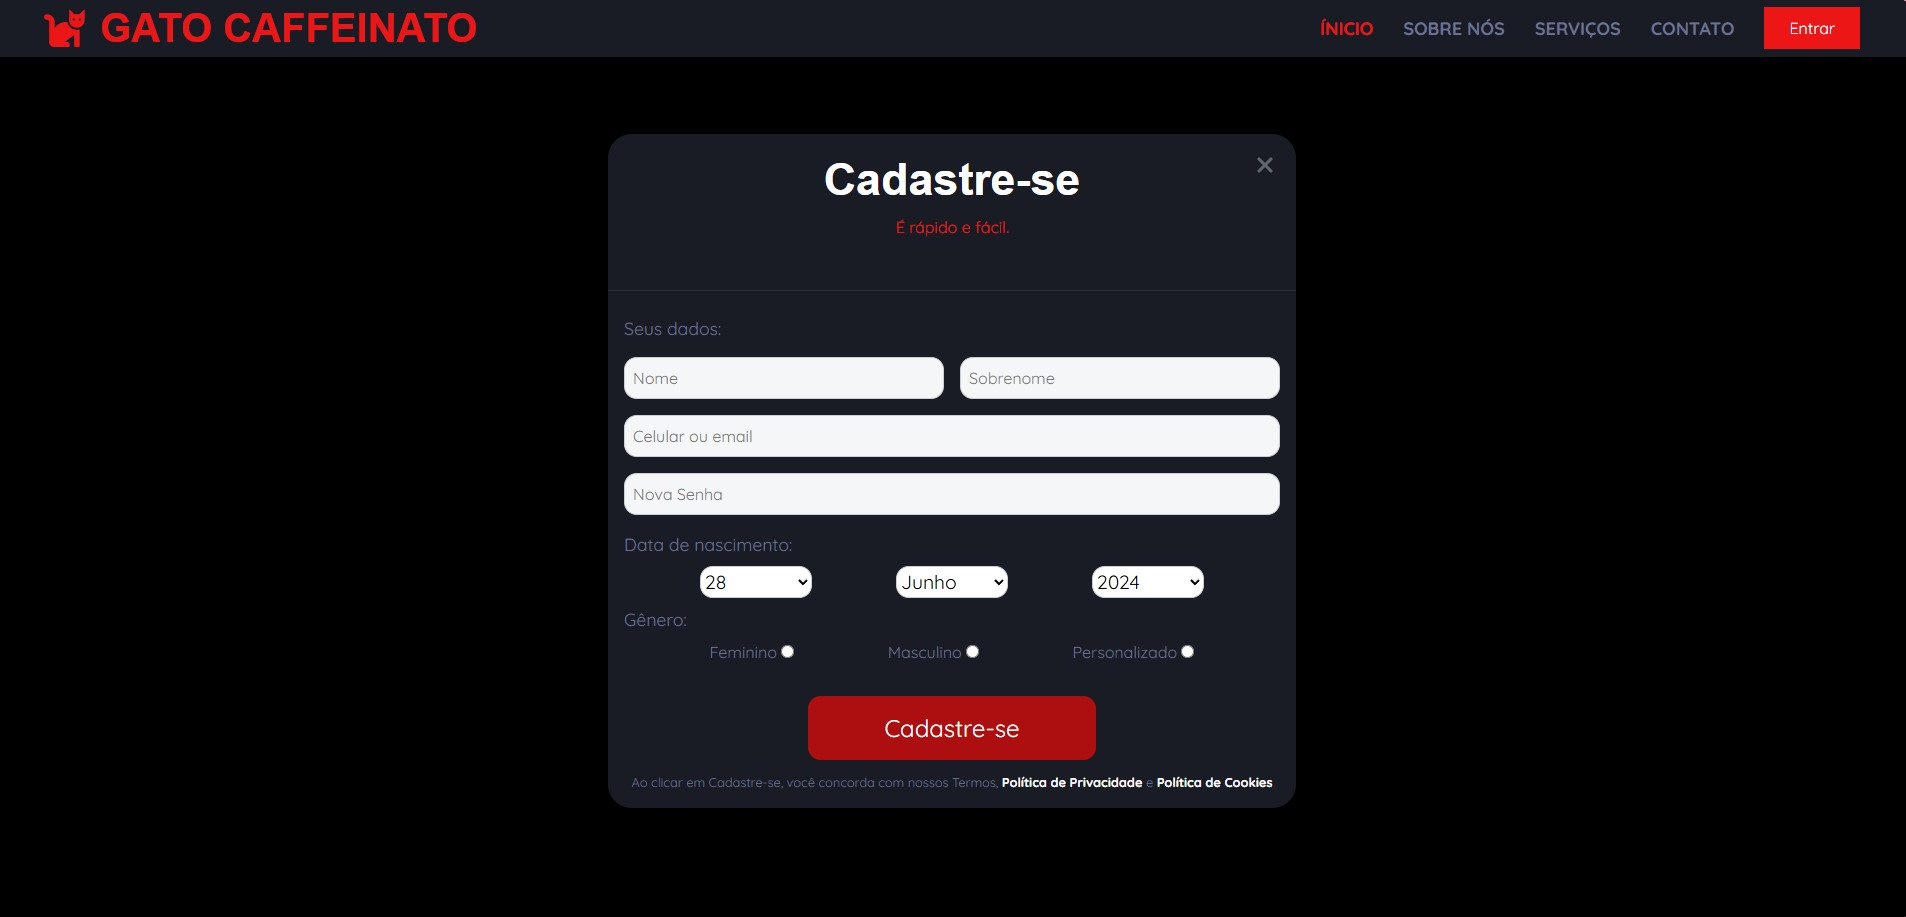
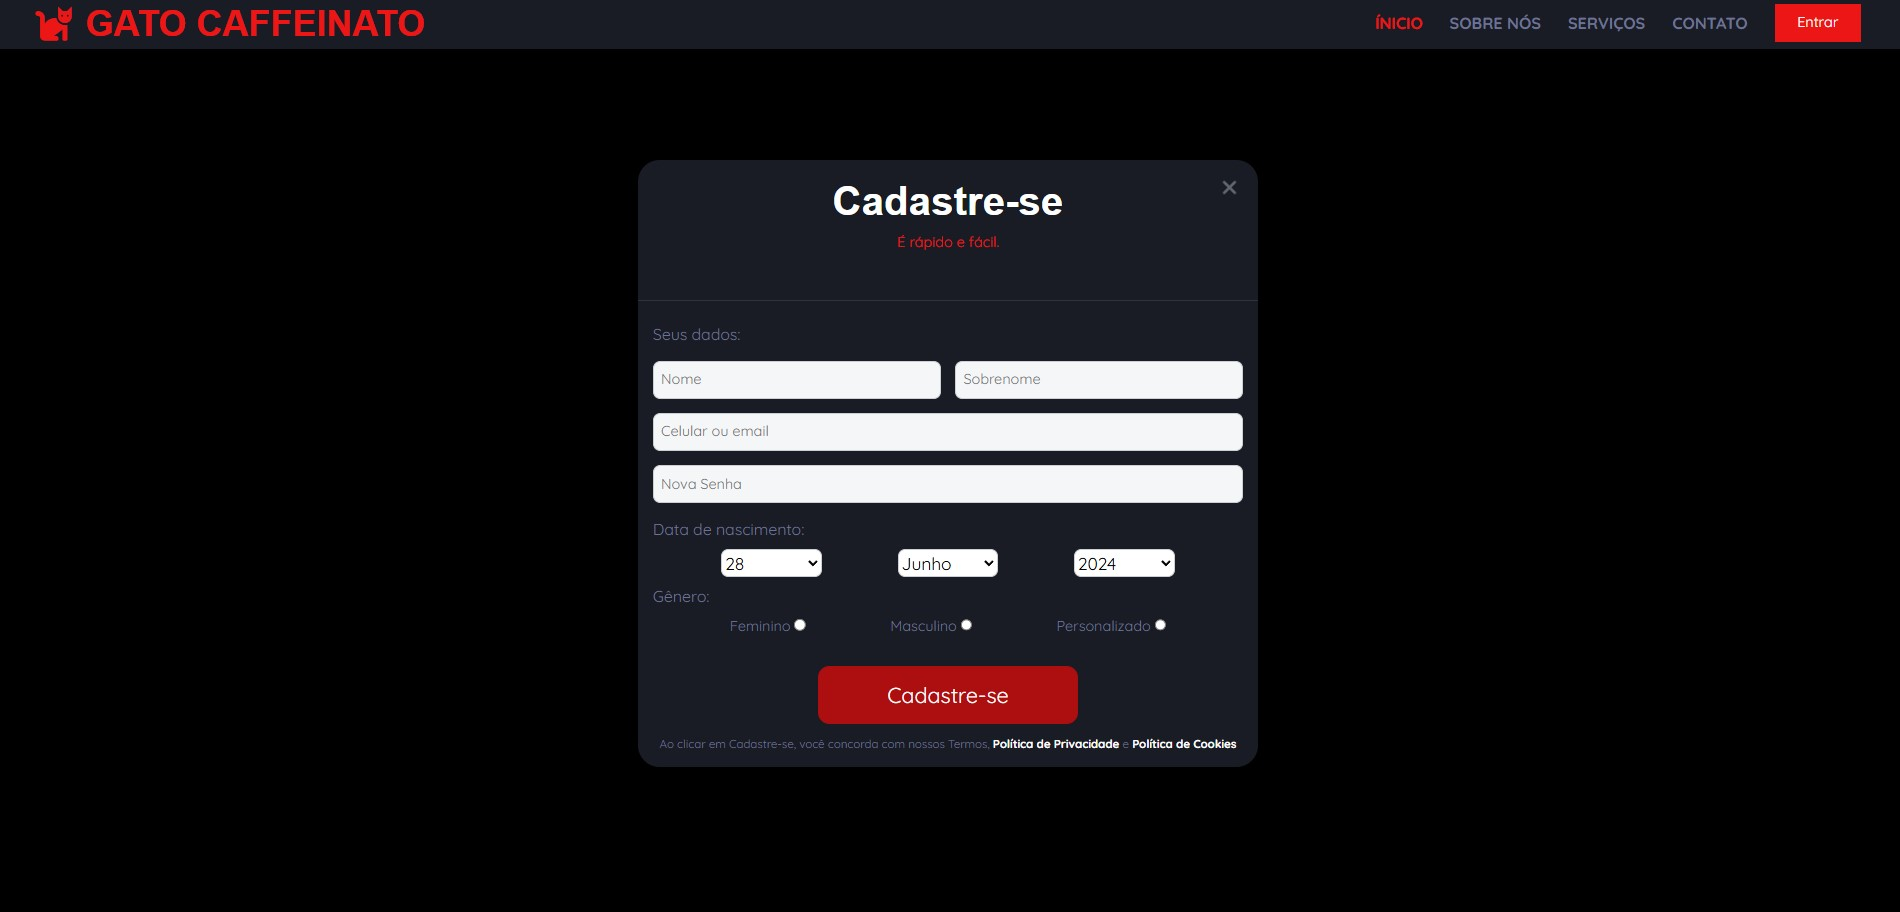
Att no forms

Changed region(s): [[0.3105, 0.1228, 0.6832, 0.8904], [0.0, 0.0, 1.0, 0.0614]]

diff --git a/css/forms.css b/css/forms.css
@@ -71,7 +71,7 @@ hr {
     margin: 0.5rem;
     font-size: 1rem;
     border: 1px solid #ccd0d5;
-    border-radius: 0.8rem;
+    border-radius: 0.5rem;
 }
 
 .formulario .label {
@@ -89,7 +89,7 @@ hr {
     height: 2rem;
     font-size: 1.2rem;
     border: 1px solid #ccd0d5;
-    border-radius: 0.8rem;
+    border-radius: 0.5rem;
 }
 
 .formulario .genero {
